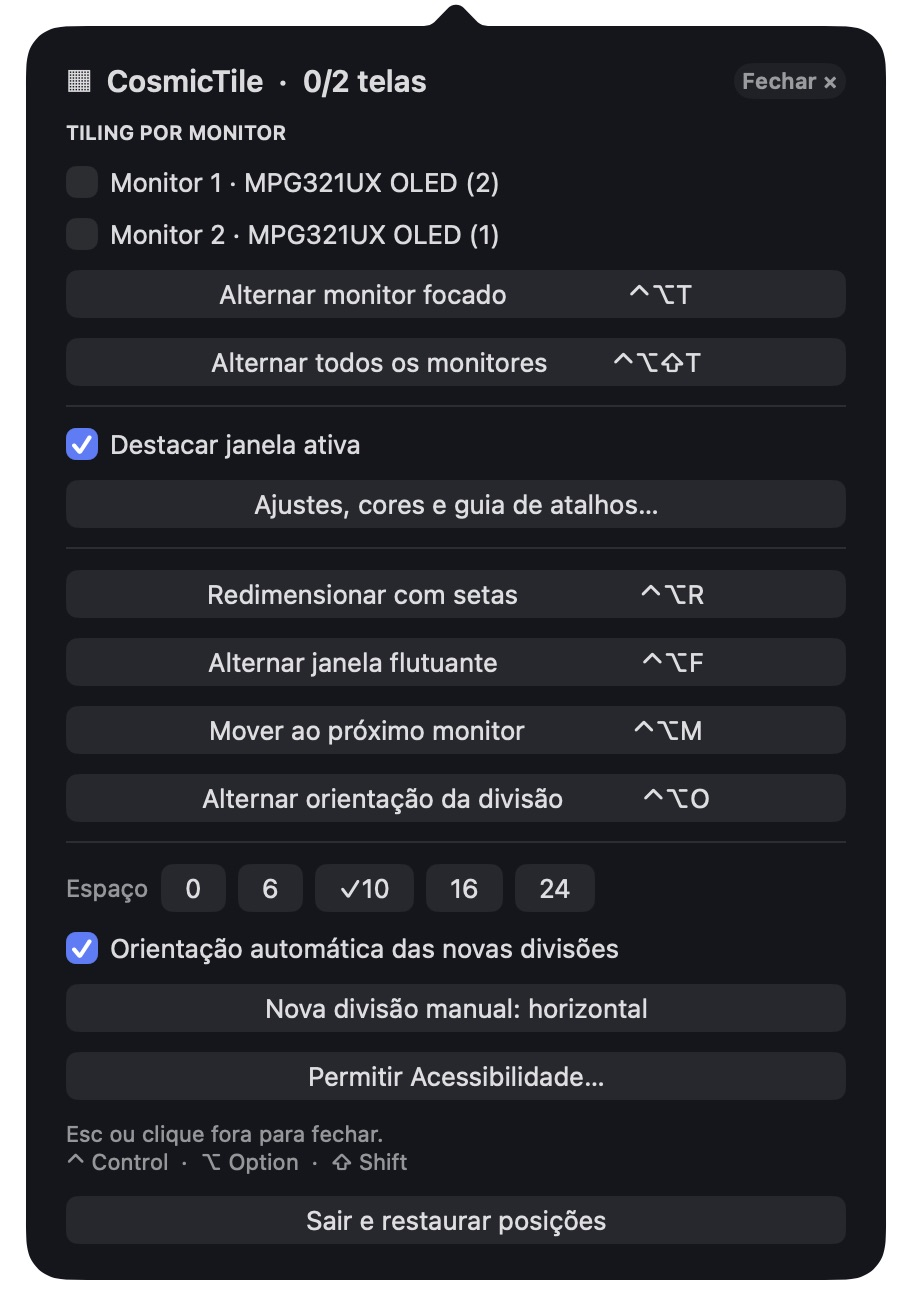
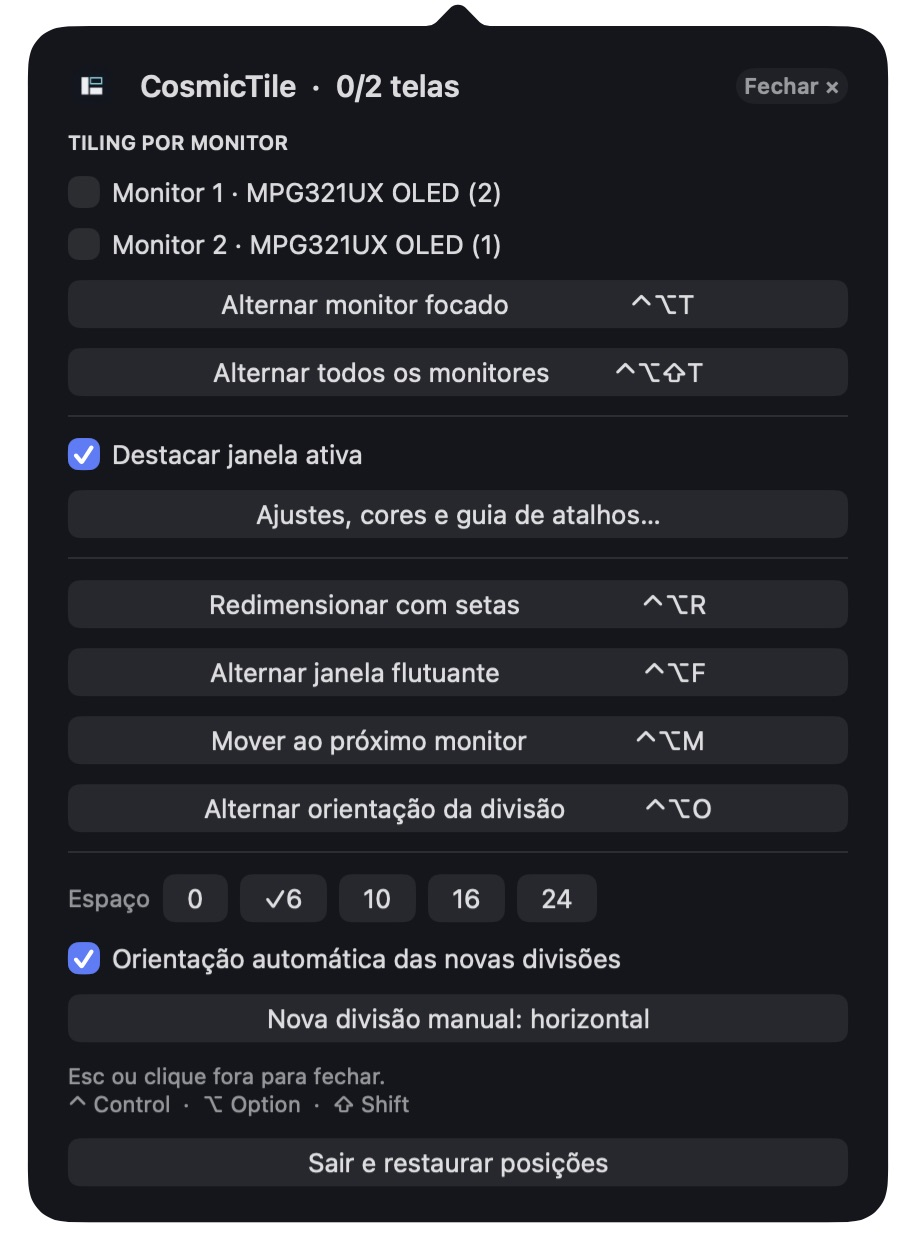
docs: refresh screenshots with shared CosmicTile identity

diff --git a/docs/VALIDATION.md b/docs/VALIDATION.md
@@ -23,4 +23,4 @@ Validate enabled/disabled monitors independently using actual application window
 
 ## v0.3.1 branding
 
-The packaged app verifies its ICNS, application PNG and menu-bar template with `--verify-brand`. The shared application artwork is byte-identical to the Windows repository copy. The 27 layout tests passed after resource integration. A live visual check of this update could not be completed while the development Mac was locked; existing screenshots show the previous interface header.
+The packaged app verifies its ICNS, application PNG and menu-bar template with `--verify-brand`. The shared application artwork is byte-identical to the Windows repository copy. The 27 layout tests passed after resource integration. After the Mac was unlocked, the running v0.3.1 settings and quick-controls windows were visually inspected: both display the shared CosmicTile icon. Documentation screenshots were refreshed, and Escape dismissal was rechecked.
